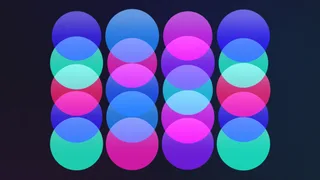
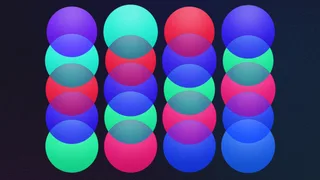
Círculos más fiel al póster: círculos grandes que llenan el cuadro, cruces solo de a dos con un tercer color vivo, luz que nace arriba, colores plenos
Claude-Session: https://claude.ai/code/session_0196GyQFunpP2YdAEnvtnEqf

diff --git a/index.html b/index.html
@@ -10710,21 +10710,23 @@ function circSetup() {
     float h(vec2 p) { return fract(sin(dot(p, vec2(127.1, 311.7))) * 43758.5453); }
     void main() {
       float asp = uRes.x / uRes.y; vec2 p = vec2(vUv.x * asp, vUv.y);
-      vec3 col = mix(uBg, withCover(uBg), uNight > .5 ? .5 : .35);
+      vec3 col = mix(uBg, withCover(uBg), uNight > .5 ? .5 : .35); float covd = 0.;
       for (int i = 0; i < 20; i++) {
         if (i >= uN) break;
         vec4 c = uC[i]; vec2 d = (p - c.xy) / c.z; float r = length(d);
         float a = smoothstep(1. + 1.5 / (uRes.y * c.z), 1. - 1.5 / (uRes.y * c.z), r);
         if (a <= 0.) continue;
         // color plano con un degradado suave: más claro arriba, pleno abajo (como pintado con aerógrafo)
-        float top = smoothstep(-.9, 1., d.y);
-        vec3 k = mix(uK[i], mix(uK[i], vec3(1.), .5), top * top * (.55 + c.w * .4));
-        k *= .9 + .12 * c.w;
-        // donde se cruza con lo de abajo nace otro color: de día como tintas (se multiplican), de noche como luces (se suman)
-        vec3 over = uNight > .5 ? k * .82 + col * .55 : k * mix(vec3(1.), col, .62) * 1.12;
-        col = mix(col, over, a * (.9 + .1 * c.w));
+        // como pintado con aerógrafo: una luz suave que nace en lo alto del círculo y se funde hacia abajo, donde el color es pleno
+        vec2 ap = d - vec2(0., .78); float glowT = exp(-dot(ap, ap) * 1.15);
+        vec3 k = mix(uK[i] * (.86 + .14 * smoothstep(-1., .4, d.y)), mix(uK[i], vec3(1.), .5), glowT * (.5 + c.w * .35));
+        // donde se cruza con otro nace un tercer color, vivo (mezcla de tintas que no oscurece), con su propio degradado
+        vec3 mixd = sqrt(max(k * col, 0.)); mixd = mix(vec3(dot(mixd, vec3(.3, .59, .11))), mixd, 1.3) * 1.04;
+        mixd = mix(mixd, mix(mixd, vec3(1.), .4), glowT * .5);
+        vec3 over = covd > .5 ? mixd : k;
+        col = mix(col, over, a); covd = max(covd, a);
       }
-      col += (h(gl_FragCoord.xy) - .5) * .045;   // grano de papel
+      col += (h(gl_FragCoord.xy) - .5) * .06;   // grano de papel
       o = vec4(col, 1.);
     }`);
 }
@@ -10732,8 +10734,10 @@ function drawCircles(dt) {
   if (!glInit()) { drawBokeh(dt); return; }
   if (!circ.prog) circSetup();
   const night = state.theme === 'dark', gl = GLX.gl, asp = W / H;
-  const cols = asp > 1.5 ? 4 : asp > 0.9 ? 3 : 2, rows = 5, n = cols * rows;
-  const R = Math.min(asp * 0.9 / cols / 2.06, 0.9 / (rows + 1)), stepY = R, x0 = asp / 2 - (cols - 1) * R * 1.03;
+  // círculos grandes que llenan el cuadro, encimados justo a la mitad (como el póster): dos columnas en vertical
+  const cols = asp > 1.5 ? 4 : asp > 0.9 ? 3 : 2;
+  const R = Math.min(asp * 0.95 / cols / 2.04, 0.96 / 6), rows = Math.max(4, Math.min(Math.floor(20 / cols), Math.round(0.96 / R) - 1)), n = cols * rows;
+  const stepY = R, x0 = asp / 2 - (cols - 1) * R * 1.02;
   for (let i = 0; i < n; i++) {
     const cx = i % cols, ry = Math.floor(i / cols);   // ry = 0 abajo
     const k0 = Math.floor(((ry + cx * 0.35) / (rows + 0.4)) * BANDS * 0.92);
@@ -10749,10 +10753,10 @@ function drawCircles(dt) {
   const hs = [0, 1, 2].map(k => hexToHsl(rgbToHex(...RGB[k].map(Math.round))));
   for (let i = 0; i < n; i++) {
     const cx = i % cols, ry = Math.floor(i / cols), lv = Math.max(0, Math.min(1.2, circ.lv[i]));
-    const [h_, s_] = hs[(ry + cx * 2) % 3], dh = ((ry * 37 + cx * 61) % 3 - 1) * 22;
-    circ.K.set(hexToRgb(hsl(h_ + dh, Math.min(96, Math.max(82, s_)), night ? 52 : 50)).map(v => v / 255), i * 3);
+    const [h_] = hs[(ry + cx * 2) % 3], dh = ((ry * 3 + cx * 7 + i) % 5 - 2) * 16;   // los tonos de la portada, abiertos en abanico: variedad viva como en el póster
+    circ.K.set(hexToRgb(hsl(h_ + dh, 88, night ? 50 : 47)).map(v => v / 255), i * 3);
     const y = 0.5 + (ry - (rows - 1) / 2) * stepY + circ.bump[i] * R * 0.8;
-    circ.C.set([x0 + cx * R * 2.06, y, R * (0.6 + lv * 0.6), lv], i * 4);
+    circ.C.set([x0 + cx * R * 2.04, y, R * (0.74 + Math.min(1, lv) * 0.26), lv], i * 4);   // nunca más grande que el paso: solo se cruzan de a dos, como en el póster
   }
   const [hh] = hexToHsl(rgbToHex(...mix(0.5).map(Math.round)));
   const [cw, ch] = glCanvas(1), p = circ.prog;

diff --git a/sw.js b/sw.js
@@ -1,7 +1,7 @@
 // Permite instalar la página como app y abrirla sin conexión.
 // La página se pide primero a la red (así siempre llega la última versión) y, si no hay
 // conexión, se usa la copia guardada. Las imágenes se sirven desde la copia y se renuevan por detrás.
-const CACHE = 'siente-v105';
+const CACHE = 'siente-v106';
 const CORE = ['./', 'index.html', 'manifest.webmanifest', 'icons/icon.svg', 'icons/icon-192.png', 'icons/icon-512.png'];
 
 self.addEventListener('install', e => {
